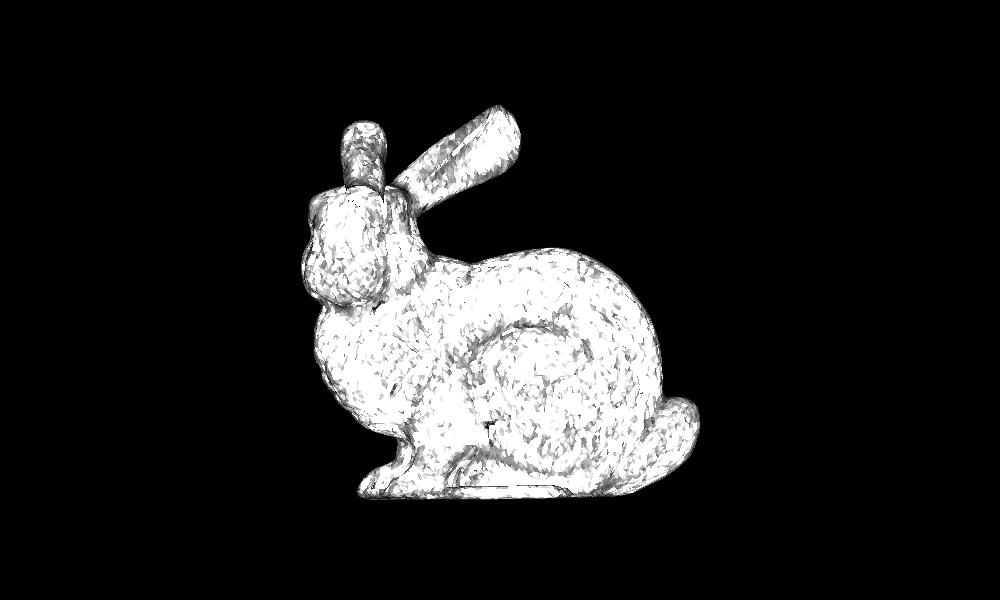
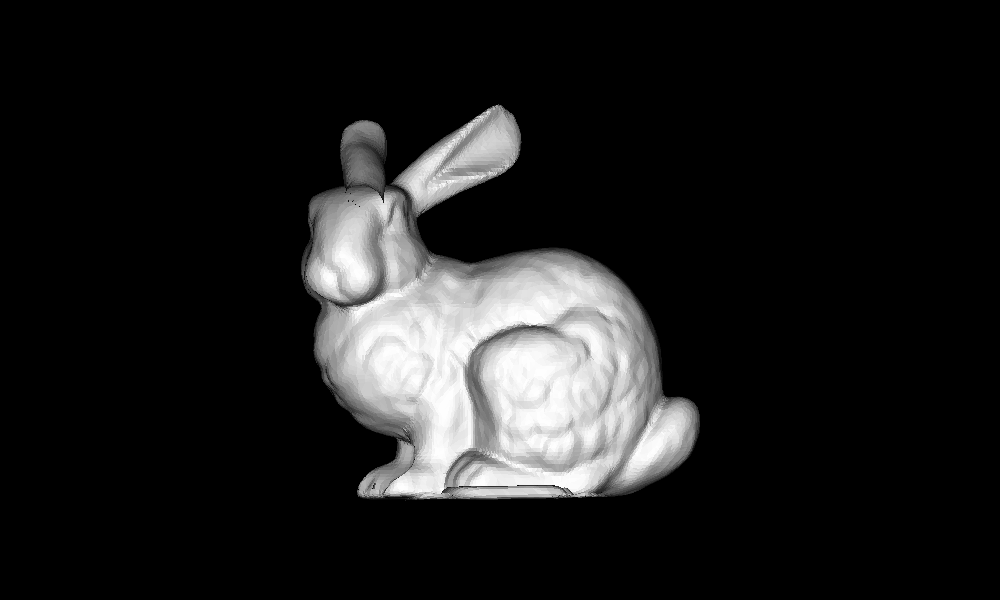
2 laba (15)

Changed region(s): [[0.279, 0.18, 0.713, 0.84]]

diff --git a/model.py b/model.py
@@ -103,7 +103,7 @@ class Model:
             # color = (randint(0, 255), randint(0, 255), randint(0, 255))
             cos = self.check_polygon(polygon)
             if (cos < 0):
-                color = (int(255 * abs(cos) * 10**6), int(255 * abs(cos)* 10**6), int(255 * abs(cos)* 10**6))
+                color = (int(255 * abs(cos)), int(255 * abs(cos)), int(255 * abs(cos)))
                 self.paint_polygon(polygon, img, color)
 
 
@@ -119,4 +119,4 @@ class Model:
 
         n = self.calculate_normal(v0[0], v0[1], v0[2], v1[0], v1[1], v1[2], v2[0], v2[1], v2[2])
 
-        return np.dot(n, l)
+        return np.dot(n, l)/(np.linalg.norm(n)*np.linalg.norm(l))
